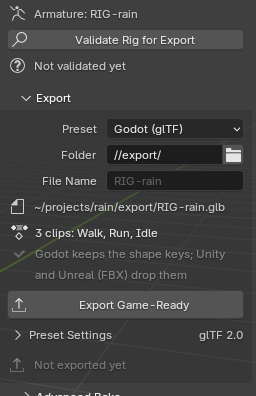
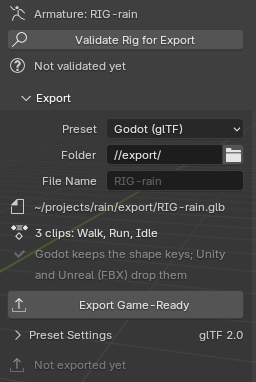
Rigbake: panel-before-export cut above the Advanced Bake header (256x382)

diff --git a/rigbake/index.html b/rigbake/index.html
@@ -138,7 +138,7 @@
   <p>Every image below is a capture from a real Blender 4.2 LTS window at real size, or a Godot 4.7 render of the exported files. The panel and dialog captures show Rigbake 1.2.7, the next release, which is in testing; the download today is 1.2.5, which writes the same files and words a few panel lines differently (for example its preset menu says "Godot", not "Godot (glTF)"). The character is Rain, the Blender Studio's free production rig (2166 bones, 2788 bone constraints), with an Idle, a Walk and a Run clip, each on its own unmuted NLA track (as after Push Down), and her legs in IK. The two panel images link to the full Blender window.</p>
   <div class="pair">
     <figure>
-      <a href="img/character-01-blender-rain-clips.png"><img class="ui" src="img/panel-before-export.png" alt="The Rigbake sidebar tab at real size with Rain's armature selected: Armature: RIG-rain, Validate Rig for Export, the Godot (glTF) preset, the file it will write, ~/projects/rain/export/RIG-rain.glb, '3 clips: Walk, Run, Idle' and the grey line 'Godot keeps the shape keys; Unity and Unreal (FBX) drop them' above the Export Game-Ready button, with Preset Settings closed below it" width="256" height="396" loading="lazy"></a>
+      <a href="img/character-01-blender-rain-clips.png"><img class="ui" src="img/panel-before-export.png" alt="The Rigbake sidebar tab at real size with Rain's armature selected: Armature: RIG-rain, Validate Rig for Export, the Godot (glTF) preset, the file it will write, ~/projects/rain/export/RIG-rain.glb, '3 clips: Walk, Run, Idle' and the grey line 'Godot keeps the shape keys; Unity and Unreal (FBX) drop them' above the Export Game-Ready button, with Preset Settings closed below it" width="256" height="382" loading="lazy"></a>
       <figcaption>Before you click: the file, and her three clips.</figcaption>
     </figure>
     <figure>

diff --git a/rigbake/quick-start.html b/rigbake/quick-start.html
@@ -62,7 +62,7 @@
         <li>Below the File Name the tab shows the file and the clips it will write, for example "2 clips from CTRL: Walk, Run".</li>
         <li>"Save your file, or pick a Folder" means: save the .blend first. Export stays disabled until then.</li>
       </ul>
-      <figure><img src="img/panel-before-export.png" alt="The Rigbake tab at real size (Rigbake 1.2.7, the next release; 1.2.5 words a few lines differently): Armature: RIG-rain, Validate Rig for Export, Not validated yet, Preset Godot (glTF), Folder //export/, the file ~/projects/rain/export/RIG-rain.glb it will write, '3 clips: Walk, Run, Idle', the grey line 'Godot keeps the shape keys; Unity and Unreal (FBX) drop them', the Export Game-Ready button and Preset Settings closed below it" width="256" height="396" loading="lazy"><figcaption>The Rigbake tab before the first export (Blender 4.2, real size; captured on Rigbake 1.2.7, the next release, whose panel words a few lines differently from 1.2.5).</figcaption></figure>
+      <figure><img src="img/panel-before-export.png" alt="The Rigbake tab at real size (Rigbake 1.2.7, the next release; 1.2.5 words a few lines differently): Armature: RIG-rain, Validate Rig for Export, Not validated yet, Preset Godot (glTF), Folder //export/, the file ~/projects/rain/export/RIG-rain.glb it will write, '3 clips: Walk, Run, Idle', the grey line 'Godot keeps the shape keys; Unity and Unreal (FBX) drop them', the Export Game-Ready button and Preset Settings closed below it" width="256" height="382" loading="lazy"><figcaption>The Rigbake tab before the first export (Blender 4.2, real size; captured on Rigbake 1.2.7, the next release, whose panel words a few lines differently from 1.2.5).</figcaption></figure>
     </li>
     <li><strong>Click Validate Rig for Export.</strong>
       <ul>
